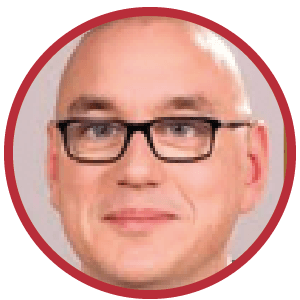
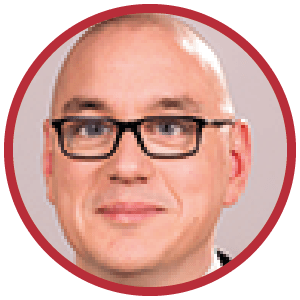
Deploy AKSW/lswt2019.aksw.org to github.com/AKSW/lswt2019.aksw.org.git:gh-pages

diff --git a/index.html b/index.html
@@ -177,11 +177,11 @@
           
           
           
-          <a href="http://aksw.org/MichaelMartin"><img src="/images/partner/AKSW_Logo_small.svg" alt="AKSW" style="width: 40%"></a>
-          
-          
-          
           <a href="http://aksw.org/MichaelMartin"><img src="/images/partner/InfAI_small.svg" alt="InfAI" style="width: 40%"></a>
+          
+          
+          
+          <a href="http://aksw.org/MichaelMartin"><img src="/images/partner/AKSW_Logo_small.svg" alt="AKSW" style="width: 40%"></a>
           
         </p>
       </div>
@@ -213,11 +213,11 @@
           
           
           
-          <a href="http://aksw.org/NatanaelArndt"><img src="/images/partner/AKSW_Logo_small.svg" alt="AKSW" style="width: 40%"></a>
-          
-          
-          
           <a href="http://aksw.org/NatanaelArndt"><img src="/images/partner/InfAI_small.svg" alt="InfAI" style="width: 40%"></a>
+          
+          
+          
+          <a href="http://aksw.org/NatanaelArndt"><img src="/images/partner/AKSW_Logo_small.svg" alt="AKSW" style="width: 40%"></a>
           
         </p>
       </div>
@@ -249,11 +249,11 @@
           
           
           
-          <a href="http://aksw.org/EdgardMarx"><img src="/images/partner/AKSW_Logo_small.svg" alt="AKSW" style="width: 40%"></a>
-          
-          
-          
           <a href="http://aksw.org/EdgardMarx"><img src="/images/partner/InfAI_small.svg" alt="InfAI" style="width: 40%"></a>
+          
+          
+          
+          <a href="http://aksw.org/EdgardMarx"><img src="/images/partner/AKSW_Logo_small.svg" alt="AKSW" style="width: 40%"></a>
           
         </p>
       </div>
@@ -382,7 +382,7 @@
   <div class="row">
     <div class="col-md-4 pr-0">
       
-        <img class="w-100" src="/images/people/placeholder.svg" alt="Professor Dr. Thomas Riechert">
+        <img class="w-100" src="/images/people/ThomasRiechert.png" alt="Professor Dr. Thomas Riechert">
       
     </div>
     <div class="col-md-8">
@@ -418,7 +418,7 @@
   <div class="row">
     <div class="col-md-4 pr-0">
       
-        <img class="w-100" src="/images/people/placeholder.svg" alt="Edgard Marx">
+        <img class="w-100" src="/images/people/EdgardMarx.png" alt="Edgard Marx">
       
     </div>
     <div class="col-md-8">
